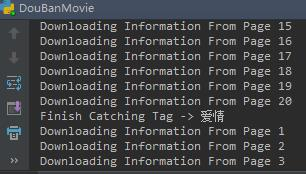
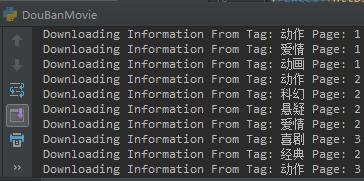
ADD multi-threads to Movie Crawl to promote efficiency!!!

diff --git a/DouBanMovie.py b/DouBanMovie.py
@@ -1,6 +1,6 @@
 #!/usr/bin/python
 # -*- coding:utf-8 -*-
-import asyncio
+import threading
 import time
 import urllib.request
 
@@ -71,17 +71,26 @@ def movie_spider(movie_tag):
 			page_parser(movie_info, movie_list)
 			try_times = 0  # set 0 when got valid information
 		page_num += 1
-		print("Downloading Information From Page {0}".format(page_num))
+		print("Downloading Information From Tag: {1} Page: {0} ".format(page_num, movie_tag))
 	print('Finish Catching Tag -> {0}'.format(movie_tag))
 	return movie_list
 
 
-async def run_spider(movie_tag_lists):
-	movie_lists = list()
+def fetch_list(movie_tag: str, movie_lists: list):
+	movie_list = movie_spider(movie_tag)
+	movie_list = sorted(movie_list, key=lambda x: x[1], reverse=True)
+	movie_lists.append(movie_list)
+
+
+def run_spider(movie_tag_lists):
+	movie_lists = []
+	threads = []
 	for movie_tag in movie_tag_lists:
-		movie_list = movie_spider(movie_tag)
-		movie_list = sorted(movie_list, key=lambda x: x[1], reverse=True)
-		movie_lists.append(movie_list)
+		t = threading.Thread(target=fetch_list, args=(movie_tag, movie_lists))
+		threads.append(t)
+		t.start()
+	for i in range(len(threads)):
+		threads[i].join()
 	return movie_lists
 
 
@@ -104,30 +113,21 @@ def output_to_excel(movie_lists, movie_tag_lists):
 	wb.save(file_name)
 
 
-async def one_spider_run(movie_tags):
-	movie_lists = await run_spider(movie_tags)
-	print(type(movie_lists))
-	output_to_excel(movie_lists, movie_tags)
-
-
-async def main_run():
-	movie_tag_lists_1 = ['爱情', '喜剧', '剧情', '动画', '科幻', '动作', '经典', '悬疑']
+def main():
+	movie_tag_lists = ['爱情', '喜剧', '剧情', '动画', '科幻', '动作', '经典', '悬疑']
 	'''
-	movie_tag_lists_2 = ['青春', '犯罪', '惊悚', '文艺', '搞笑', '纪录片', '励志', '恐怖']
-	movie_tag_lists_3 = ['战争', '短片', '魔幻', '传记', '情色', '暴力', '家庭', '音乐']
-	movie_tag_lists_4 = ['浪漫', '女性', '史诗', '童话', '黑帮', '西部', '同志']
-	movie_tag_lists_5 = ['美国', '日本', '香港', '英国', '中国', '韩国', '法国', '台湾']
-	movie_tag_lists_6 = ['中国大陆', '德国', '印度', '欧洲']
-	movie_tag_lists_7 = ['周星驰', '宫崎骏', '王家卫', '梁朝伟', 'JohnnyDepp', '尼古拉斯·凯奇', '斯皮尔伯格', '成龙']
-	movie_tag_lists_8 = ['刘德华', '张艺谋', '张国荣']
-	movie_tag_lists_9 = ['2017', '2016', '2015', '2014', '2013']
+	movie_tag_lists = ['青春', '犯罪', '惊悚', '文艺', '搞笑', '纪录片', '励志', '恐怖']
+	movie_tag_lists = ['战争', '短片', '魔幻', '传记', '情色', '暴力', '家庭', '音乐']
+	movie_tag_lists = ['浪漫', '女性', '史诗', '童话', '黑帮', '西部', '同志']
+	movie_tag_lists = ['美国', '日本', '香港', '英国', '中国', '韩国', '法国', '台湾']
+	movie_tag_lists = ['中国大陆', '德国', '印度', '欧洲']
+	movie_tag_lists = ['周星驰', '宫崎骏', '王家卫', '梁朝伟', 'JohnnyDepp', '尼古拉斯·凯奇', '斯皮尔伯格', '成龙']
+	movie_tag_lists = ['刘德华', '张艺谋', '张国荣']
+	movie_tag_lists = ['2017', '2016', '2015', '2014', '2013']
 	'''
-	movie_tag_lists = [movie_tag_lists_1]
-	for movie_tags in movie_tag_lists:
-		await one_spider_run(movie_tags)
+	movie_lists = run_spider(movie_tag_lists)
+	output_to_excel(movie_lists, movie_tag_lists)
 
 
 if __name__ == '__main__':
-	loop = asyncio.get_event_loop()
-	loop.run_until_complete(main_run())
-	loop.close()
+	main()

diff --git a/README.md b/README.md
@@ -1,5 +1,5 @@
 ### DouBan Crawler Series 
-> 完成豆瓣读书/电影相关的爬取，更多信息待加入补充。
+> 完成豆瓣读书/电影相关的爬取，豆瓣电影爬虫使用了简单的**多线程**提高爬虫效率，更多信息待加入补充。
 
 ### 豆瓣图书爬虫    [Python 3.6.1]
 > 爬取结果在`Result_Book`文件夹，可直接查看  <br>
